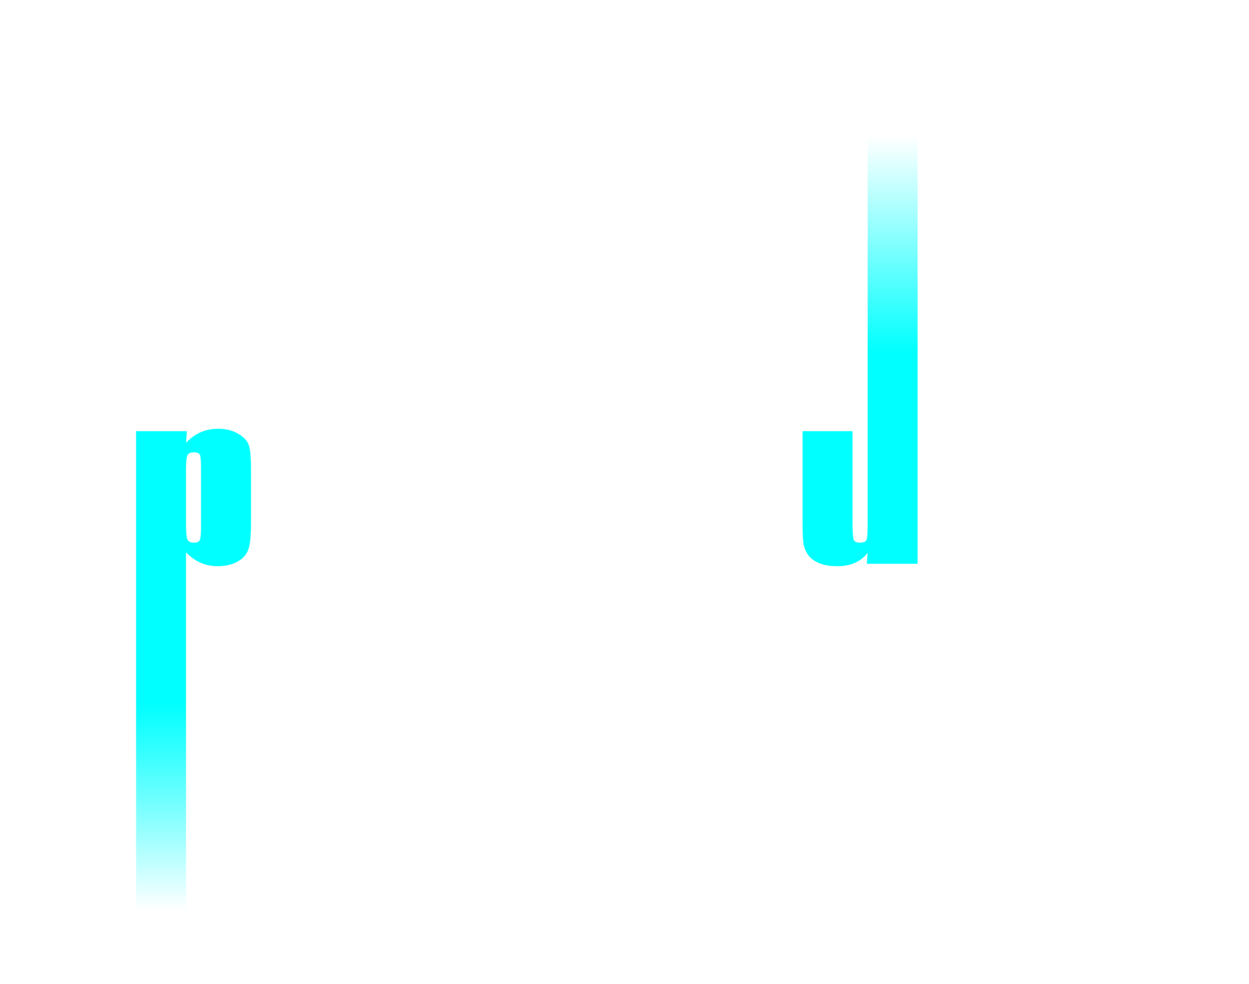
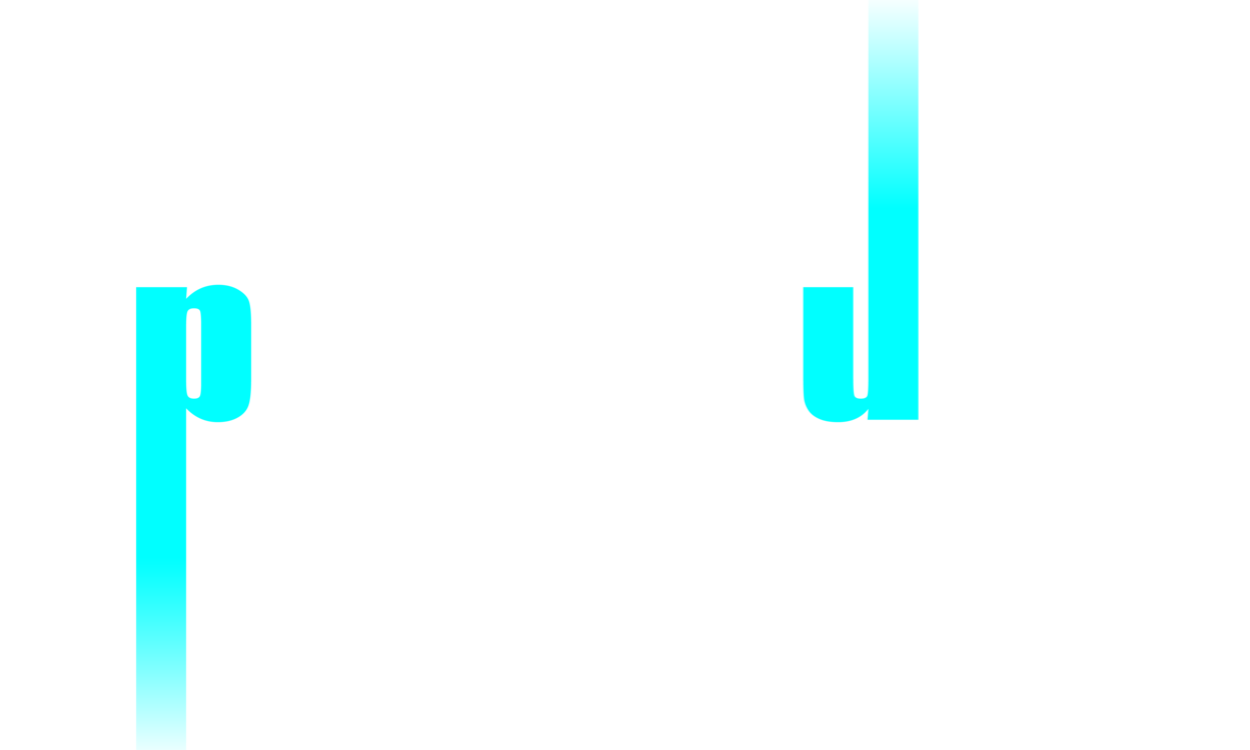
주간로고 추가, 메인페이지 CSS 수정

diff --git a/src/pages/Home/HomeKeyVisual/HomeKeyVisual.js b/src/pages/Home/HomeKeyVisual/HomeKeyVisual.js
@@ -6,62 +6,19 @@ import appConfig from "../../../config/app.config";
 
 const isShow = appConfig.isShow
 const HomeKeyVisual = () => {
-   // slider data
-   const homeSliderData = [
-      {
-         id:1,
-         bgImg:'home_slider_1'
-      },
-      {
-         id: 2,
-         bgImg:'home_slider_2',
-      },
-   ]
-   // slick setting
-   const settings = {
-      autoplay: true,
-      autoplaySpeed: 8000,
-      speed: 500,
-      infinite: true,
-      dots: false,
-      fade: true,
-      arrows: false,
-      slidesToShow: 1,
-      slidesToScroll: 1,
-   };
-
    return (
       <>
-         <section className="slider__area">
-               <Slider className='slider-active' {...settings}>
-                {
-                  homeSliderData.map((slider,index) => {
-                     return<div key={index}
-                                 className={`single-slider slider__height d-flex align-items-center ${slider.bgImg}`}>
-                        {/*<div className="slider__shape">*/}
-                        {/*   <img className="shape triangle" src="assets/img/icon/slider/triangle.png" alt="triangle"/>*/}
-                        {/*   <img className="shape dotted-square" src="assets/img/icon/slider/dotted-square.png"*/}
-                        {/*        alt="dotted-square"/>*/}
-                        {/*   <img className="shape solid-square" src="assets/img/icon/slider/solid-square.png"*/}
-                        {/*        alt="solid-square"/>*/}
-                        {/*   <img className="shape circle" src="assets/img/icon/slider/circle.png" alt="circle"/>*/}
-                        {/*</div>*/}
-                        <Container className="h1_slider_wrapper">
-                           <Row>
-                              <Col xl="12">
-                                 <div className="slider__content-5">
-                                    <img src="assets/img/banner/keyvisual_desktop_text.png" alt=""/>
-                                    <div className="slider__btn">
-                                       {isShow && <Link to="/preRegistration" className="z-btn-main z-btn-transparent">사전등록</Link>}
-                                    </div>
-                                 </div>
-                              </Col>
-                           </Row>
-                        </Container>
-                     </div>;
-                  })
-                }
-               </Slider>
+         <section className="home_slider_1">
+               <Container className="h1_slider_wrapper h-100">
+                        <div className="slider__content-6">
+                           <img className="logo-top" src="assets/img/banner/top.png" alt=""/>
+                           <img className="logo-keyvisual" src="assets/img/banner/keyvisual_desktop_text.png" alt=""/>
+                           <div className="slider__btn mainBannerBtn">
+                              {isShow && <Link to="/preRegistration" className="z-btn-main z-btn-transparent">사전등록</Link>}
+                           </div>
+                           <img className="logo-bottom" src="assets/img/banner/host.png" alt=""/>
+                        </div>
+               </Container>
          </section>
       </>
    );

diff --git a/public/assets/scss/_slider.scss b/public/assets/scss/_slider.scss
@@ -362,17 +362,67 @@
 	box-shadow: 0 0 0 0 rgba(255,255,255, 0);
 }
 }
-.home_slider_1{
-    background: url(../img/banner/keyvisual_desktop_background.png);
-    background-repeat: no-repeat;
-}
-.home_slider_2{
-    background: url(../img/banner/keyvisual_desktop_background.png);
-    background-repeat: no-repeat;
-}
-.home_slider_1{
-    background: url(../img/banner/keyvisual_desktop_background.png);
-    background-repeat: no-repeat;
+.home_slider_1 {
+    background: url(../img/banner/keyvisual_desktop_background-pure.png);
+    //background-repeat: no-repeat;
+    width: 100%;
+    display:block;
+    height: 100vh; /* 화면 높이에 맞게 조정 */
+    background-size: cover; /* 이미지가 배너 크기에 맞게 조정되도록 함 */
+    background-position: center; /* 중앙에 이미지를 위치시킴 */
+    @media screen and (orientation: landscape) {
+        min-height: 850px;
+    }
+
+    /* 상단 로고, 키비주얼 로고, 하단 로고 스타일 */
+    .slider__content-6{
+        position: relative;
+        height: 100%;
+        .logo-top, .logo-keyvisual, .logo-bottom, .mainBannerBtn {
+            position: absolute;
+            left: 50%; /* 중앙 정렬 */
+            transform: translateX(-50%) translateY(-50%); /* 정확한 중앙 위치 조정 */
+        }
+
+        .logo-top {
+            top: 10%; /* 상단에서부터 10% 위치에 배치 */
+            height: auto; /* 비율 유지 */
+            width: 300px; /* 상대적 크기 조정 */
+            @media #{$md} {
+                width: 250px;
+            }
+            @media #{$xs} {
+                width: 200px;
+            }
+        }
+
+        .logo-keyvisual {
+            top: 40%; /* 상단에서부터 40% 위치에 배치 */
+            height: auto; /* 비율 유지 */
+            width: 800px; /* 상대적 크기 조정 */
+            @media #{$lg_st} {
+                width: 95vw;
+            }
+        }
+
+        .mainBannerBtn {
+            top: 70%; /* 상단에서부터 90% 위치에 배치 */
+            //width: 15%; /* 상대적 크기 조정 */
+            //height: auto; /* 비율 유지 */
+        }
+
+        .logo-bottom {
+            top: 85%; /* 상단에서부터 90% 위치에 배치 */
+            height: auto; /* 비율 유지 */
+            width: 540px; /* 상대적 크기 조정 */
+            @media #{$md} {
+                width: 490px;
+            }
+            @media #{$xs} {
+                width: 95vw;
+            }
+        }
+    }
 }
 .home_slider_2{
     background: url(../img/banner/keyvisual_desktop_background.png);

diff --git a/functions/Controller/UserController.js b/functions/Controller/UserController.js
@@ -1,6 +1,6 @@
 const moment = require("moment");
 const {addErrLog} = require("../Service/CommonService");
-const {getUserCnt, checkClose, sprintCloseChk, addUserSpr, sprintCloseChks} = require("../Service/UserService");
+const {getUserCnt, checkClose, sprintCloseChk, addUserSpr, sprintCloseChks, getAllDocumentIds} = require("../Service/UserService");
 
 function UserController(router, firestore) {
     const collectionPath = 'User'
@@ -134,6 +134,25 @@ function UserController(router, firestore) {
         }catch (error){
             await addErrLog(0, firestore, req, error, 'Sprint')
             res.status(500).send('error while sprintCloseChks')
+        }
+    })
+
+    router.get("/getAllDocumentIds/conf", async (req, res) => {
+        try {
+            const documentIds = await getAllDocumentIds(firestore, collectionPath)
+            res.status(200).json({documentIds:documentIds})
+        }catch (error){
+            await addErrLog(0, firestore, req, error, collectionPath)
+            res.status(500).send('error while getAllDocumentIds')
+        }
+    })
+    router.get("/getAllDocumentIds/conf/str", async (req, res) => {
+        try {
+            const documentIds = await getAllDocumentIds(firestore, collectionPath)
+            res.status(200).json({documentIdsStr:documentIds.join(',')})
+        }catch (error){
+            await addErrLog(0, firestore, req, error, collectionPath)
+            res.status(500).send('error while getAllDocumentIds')
         }
     })
 }

diff --git a/functions/Service/UserService.js b/functions/Service/UserService.js
@@ -43,10 +43,20 @@ async function addUserSpr(db, userData, email) {
     });
 }
 
+async function getAllDocumentIds(db, collectionPath) {
+    try {
+        const snapshot = await db.collection(collectionPath).listDocuments();
+        const documentIds = snapshot.map((doc) => doc.id);
+        return documentIds;
+    } catch (error) {
+        throw new Error('Failed to get document IDs');
+    }
+}
 
 module.exports = {
     getUserCnt,
     addUserSpr,
     sprintCloseChk,
-    sprintCloseChks
+    sprintCloseChks,
+    getAllDocumentIds,
 }
